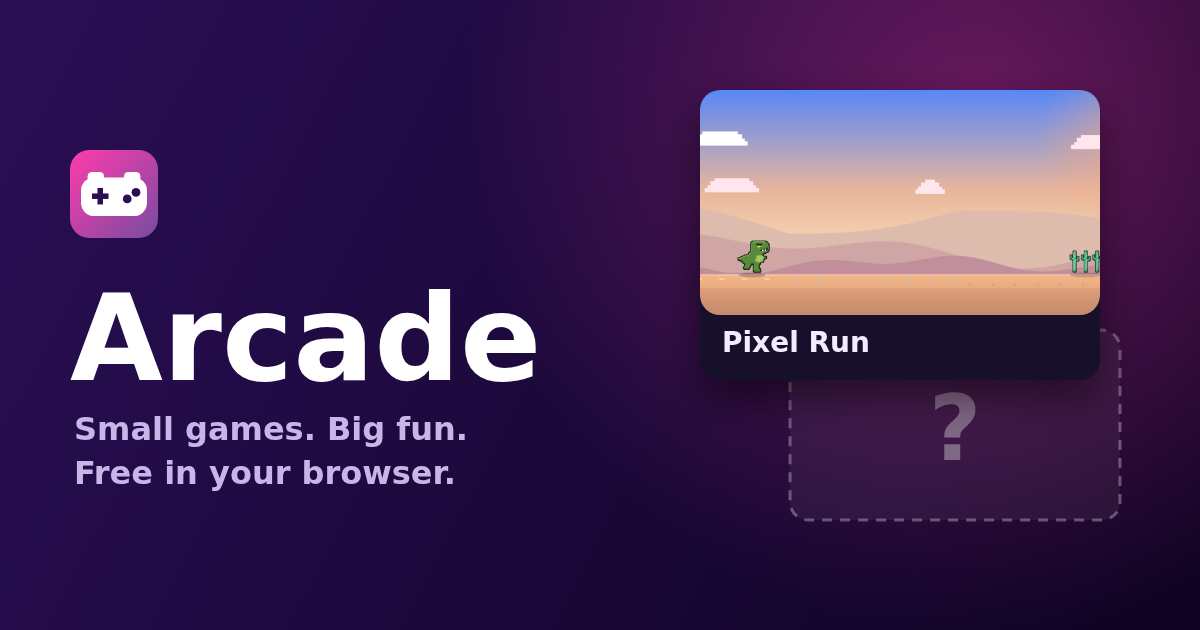
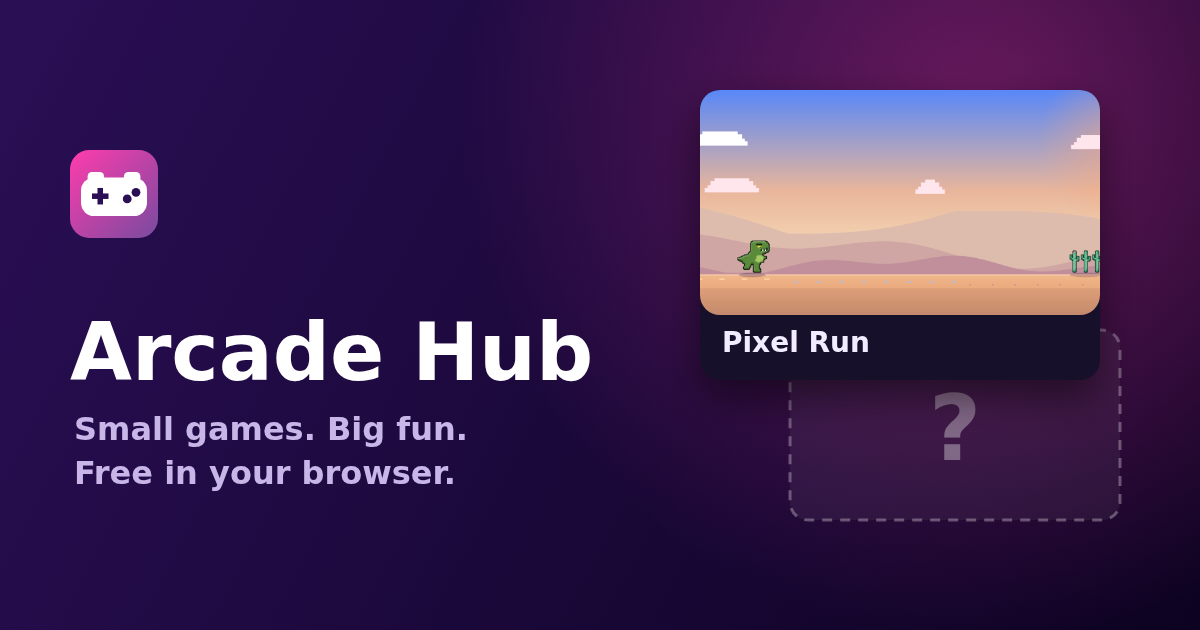
Rename site to Arcade Hub
Claude-Session: https://claude.ai/code/session_01UW47mhXMq8YouKCrDtqoFe

Changed region(s): [[0.0617, 0.4524, 0.4933, 0.6032]]

diff --git a/index.html b/index.html
@@ -3,11 +3,11 @@
 <head>
   <meta charset="UTF-8">
   <meta name="viewport" content="width=device-width, initial-scale=1, viewport-fit=cover">
-  <title>Arcade — Free Browser Games</title>
+  <title>Arcade Hub — Free Browser Games</title>
   <meta name="description" content="A small arcade of free browser games. Pick a game, beat your best score and come back for the daily challenge.">
   <meta name="theme-color" content="#0d0221">
   <meta property="og:type" content="website">
-  <meta property="og:title" content="Arcade">
+  <meta property="og:title" content="Arcade Hub">
   <meta property="og:description" content="Small games. Big fun. Free to play in your browser.">
   <!-- For share previews, replace this with the full https:// address of img/og.png once published. -->
   <meta property="og:image" content="img/og.png">
@@ -22,9 +22,9 @@
 
   <header class="top">
     <div class="wrap top-row">
-      <a class="brand" href="./" aria-label="Arcade home">
+      <a class="brand" href="./" aria-label="Arcade Hub home">
         <span class="brand-mark" aria-hidden="true"></span>
-        <span class="brand-name" id="site-name">Arcade</span>
+        <span class="brand-name" id="site-name">Arcade Hub</span>
       </a>
       <button id="open-settings" class="icon-btn" type="button" aria-haspopup="dialog" aria-label="Settings">
         <svg viewBox="0 0 24 24" width="20" height="20" aria-hidden="true"><path fill="currentColor" d="M19.4 13a7.7 7.7 0 0 0 0-2l2.1-1.6-2-3.5-2.5 1a7.6 7.6 0 0 0-1.7-1L15 3.3h-4l-.4 2.6a7.6 7.6 0 0 0-1.7 1l-2.5-1-2 3.5L6.6 11a7.7 7.7 0 0 0 0 2l-2.1 1.6 2 3.5 2.5-1c.5.4 1.1.7 1.7 1l.4 2.6h4l.4-2.6c.6-.3 1.2-.6 1.7-1l2.5 1 2-3.5L19.4 13zM13 15.5a3.5 3.5 0 1 1 0-7 3.5 3.5 0 0 1 0 7z"/></svg>

diff --git a/js/hub.js b/js/hub.js
@@ -1,5 +1,5 @@
 /*
-  Arcade hub.
+  Arcade Hub.
 
   Reads games.json, asks each live game for its own game.json (so titles,
   taglines and thumbnails stay in the game's folder), and draws one card per
